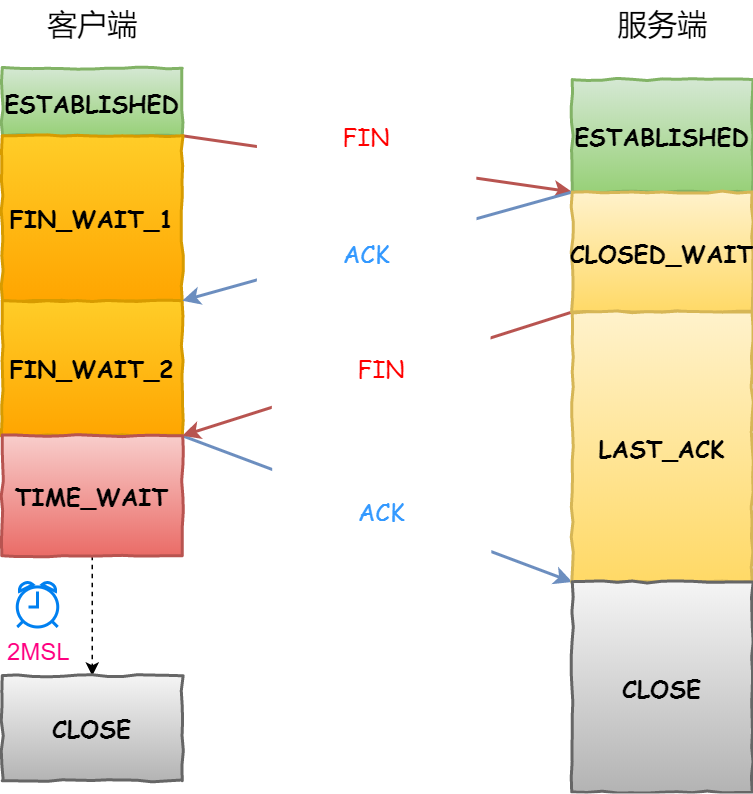
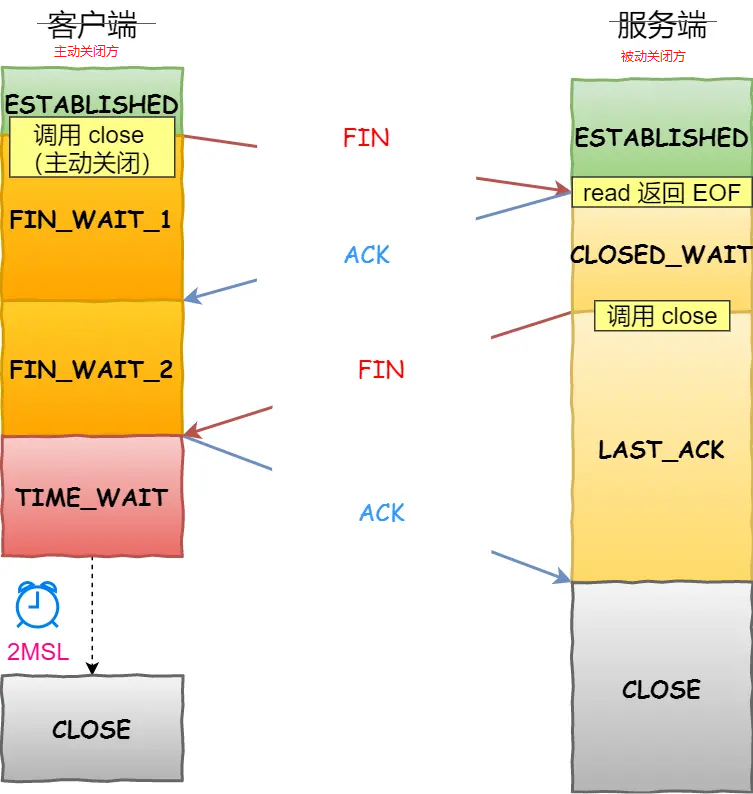
TCP

diff --git a/wireshark/TCP状态.md b/wireshark/TCP状态.md
@@ -10,7 +10,21 @@
 
 ![TCP 三次握手](images/TCP%E4%B8%89%E6%AC%A1%E6%8F%A1%E6%89%8B.drawio.png)
 
+不管是半连接队列还是全连接队列，都有最大长度限制，超过限制时，内核会直接丢弃，或返回 RST 包。
+
 > 摘自：[小林图解TCP](https://www.xiaolincoding.com/network/3_tcp/tcp_interview.html#tcp-%E8%BF%9E%E6%8E%A5%E5%BB%BA%E7%AB%8B)
+
+
+
+## TCP Fast Open
+
+[在 Linux 3.7 内核版本之后，提供了 TCP Fast Open 功能，这个功能可以减少 TCP 连接建立的时延。](https://www.xiaolincoding.com/network/3_tcp/tcp_optimize.html#%E5%A6%82%E4%BD%95%E7%BB%95%E8%BF%87%E4%B8%89%E6%AC%A1%E6%8F%A1%E6%89%8B)
+
+![开启 TCP Fast Open 功能](images/22.jpg)
+
+
+
+
 
 
 
@@ -20,4 +34,6 @@
 
 > 摘自：[小林图解TCP](https://www.xiaolincoding.com/network/3_tcp/tcp_interview.html#tcp-%E8%BF%9E%E6%8E%A5%E5%BB%BA%E7%AB%8B)
 
+关闭连接的方式通常有两种，分别是 RST 报文关闭和 FIN 报文关闭。
 
+如果进程收到 RST 报文，就直接关闭连接了，不需要走四次挥手流程，是一个暴力关闭连接的方式。
